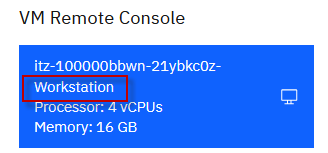
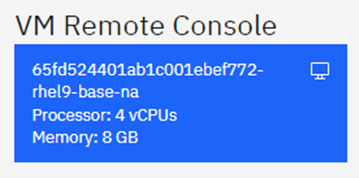
Updated

diff --git a/README.md b/README.md
@@ -113,9 +113,9 @@ Otherwise, you will need to reserve an environment for the lab. You can obtain o
 
 <https://TBD-to-the-reservation-link>
 
-The lab environment contains one Linux VM. 
+The lab environment contains one (1) Linux VM, named Workstation.
 
-<kbd>![](./images/media/env-list_new.png)</kbd>
+<kbd>![](./images/media/workstation.png)</kbd>
 
 
 <br/>
